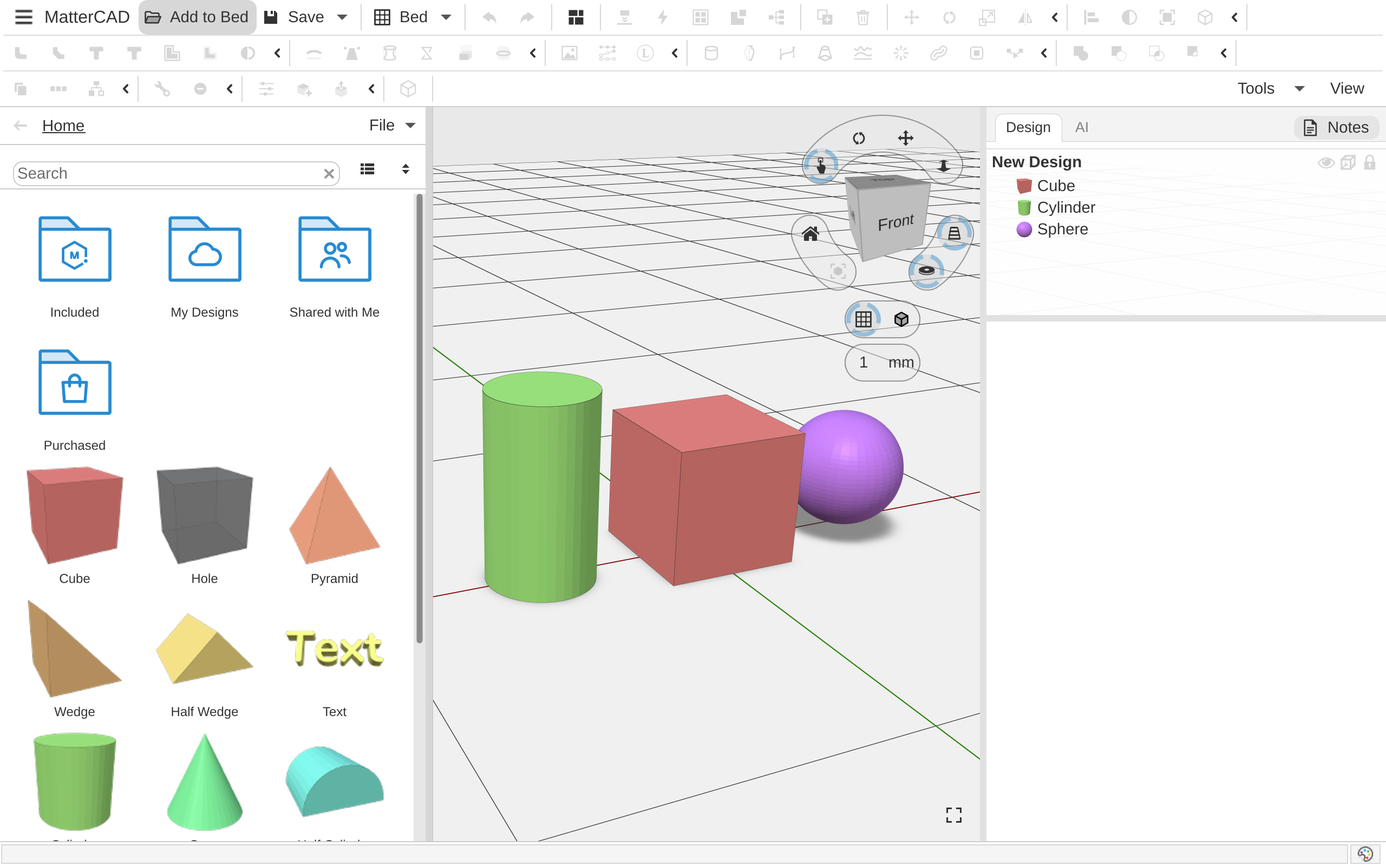
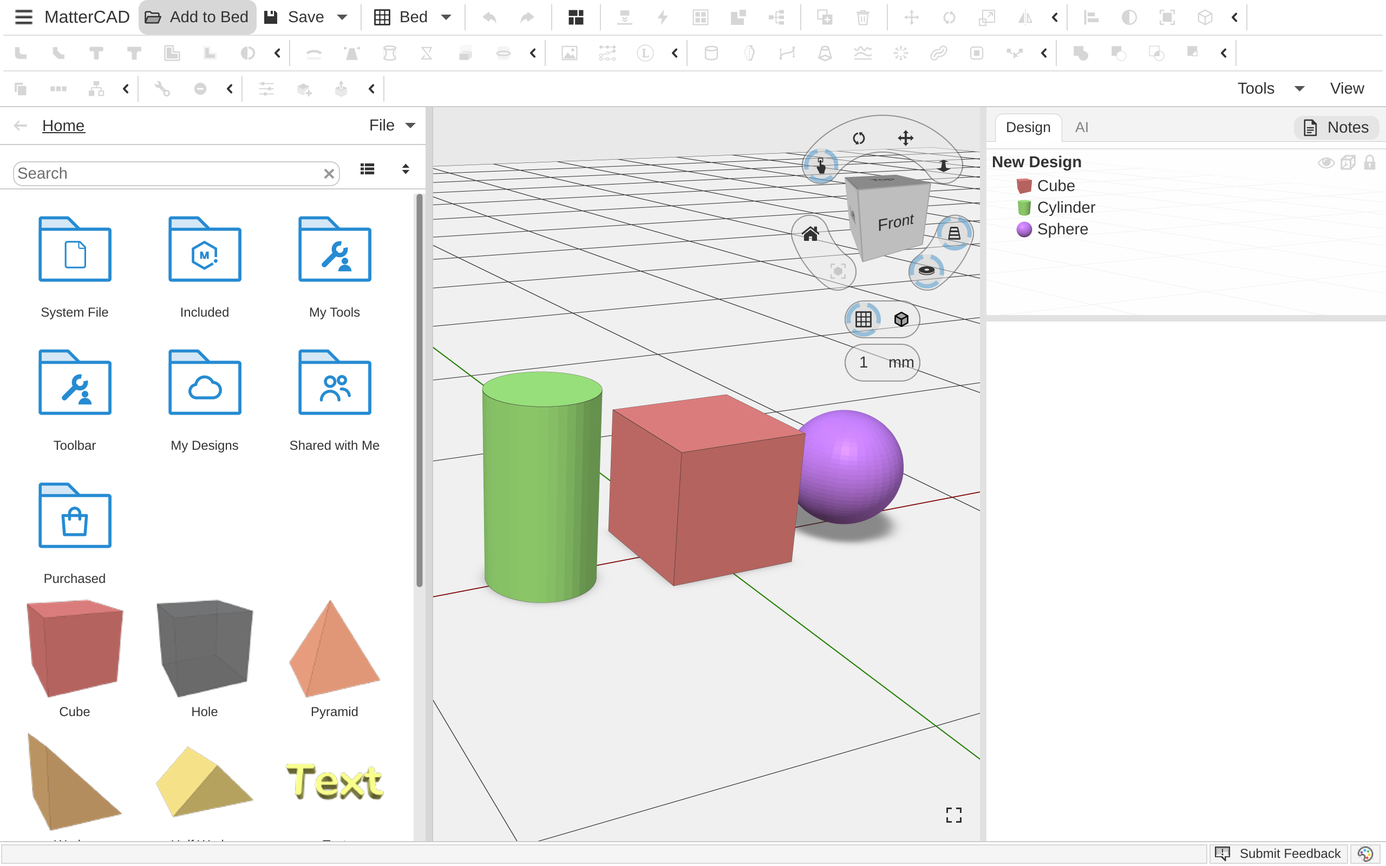
Help: a file from your computer comes in through Add to Bed's System File folder (in the Library tab it opens as a design), the MatterCAD menu no longer lists Add System File to Bed, the website's MatterCAD menu is a button in the design page's title bar, and Getting More Help covers Submit Feedback
The Add to Bed, MatterCAD menu and FAQ Settings pictures are remade with the System File folder and the menu as it is now. The website's MatterCAD menu picture waits for one taken with the title bar's button: the app's capture can only show the button on the editor's toolbar, where the website no longer puts it.

diff --git a/docs/Help/workspace/menus-and-toolbar.md b/docs/Help/workspace/menus-and-toolbar.md
@@ -7,7 +7,7 @@ keywords: delete, erase, buttons, file menu, main menu, duplicate
 ---
 # Menus and Toolbar
 
-The **☰ MatterCAD** menu at the left end of the tabs holds what belongs to the whole app: adding and opening files, help, updates and settings. The toolbar across the top of a design holds what belongs to that design: adding parts, saving, the bed, undo and the operations.
+The **☰ MatterCAD** menu at the left end of the tabs holds what belongs to the whole app: opening files, help, feedback, updates and settings. The toolbar across the top of a design holds what belongs to that design: adding parts, saving, the bed, undo and the operations.
 
 On a Mac, press ⌘ (Command) wherever this page says Ctrl.
 
@@ -20,11 +20,12 @@ Click **☰ MatterCAD** at the left end of the tabs. A row with a key shows it a
 
 | Item | What it does |
 |------|--------------|
-| **Add System File to Bed** | Adds a file from your computer to the design you have open. Its parts land on the bed, in one undo step. It is greyed out while the **Library** or **Help** tab is in front. See [Adding Existing Objects](../getting-started/adding-existing-objects.md) |
 | **Open System File** | Opens a file from your computer (Ctrl+O). An MCX design opens in its own tab. Any other file (an STL, a picture, a drawing) opens on the bed of a new design. See [Adding Existing Objects](../getting-started/adding-existing-objects.md) |
 | **Open Recent** | Lists the last 10 designs you opened, newest first, each with a small picture. Hover over one to see where it is. Click one to open it again. A design that is already open shows its tab instead of opening twice. When there are none, the list says **No recent files** |
+| **Open Demo** | Lists the demo designs MatterHackers keeps in Design Apps. Pick one to open a copy of it in a new tab; the first **Save** asks where to keep it. It isn't in the menu in a copy of MatterCAD set up not to use the network |
 | **Help** | Opens the **Help** tab, the same as pressing F1 |
 | **Interface Tour** | Opens the welcome window. Click **Next** there for a short guided tour of the window. See [Updates and Recovery](updates-and-recovery.md#the-welcome-page-and-the-interface-tour) |
+| **Submit Feedback...** | Opens the **Submit Feedback** window, to report a bug, ask for a feature or ask a question. The **Submit Feedback** button in the status bar opens it too. See [Getting More Help](../get-support.md#submit-feedback-in-mattercad) |
 | **Check For Update** | Looks for a newer version of MatterCAD. See [Updates and Recovery](updates-and-recovery.md#check-for-update). It isn't in the menu in the browser, where reloading the page gets the newest version, or in a copy of MatterCAD set up not to use the network |
 | **Settings** | Opens **MatterCAD Settings**. See [Settings](settings.md) |
 | **Community** › **Guides and Articles** | Opens MatterHackers' MatterCAD guides and articles in your web browser |
@@ -38,11 +39,11 @@ A design from your [Cloud Library](../library/cloud-library.md) that has been de
 
 ## The Mac Menu Bar
 
-On a Mac, the same items are also in the menu bar at the top of the screen, and **File** adds **Save**, **Save As** and **Share...**, which the ☰ MatterCAD menu leaves to the toolbar. An item with a key shows it:
+On a Mac, the same items are also in the menu bar at the top of the screen, and **File** adds **Add System File to Bed**, which the ☰ MatterCAD menu leaves to **Add to Bed**, and **Save**, **Save As** and **Share...**, which it leaves to the toolbar. An item with a key shows it:
 
 - **MatterCAD** - **About MatterCAD**, **Settings** (⌘,), **Check For Update** and **Quit** (⌘Q).
-- **File** - **Add System File to Bed**, **Open System File** (⌘O), **Open Recent**, **Save** (⌘S), **Save As** (⇧⌘S) and **Share...**. **Save** and **Save As** work on the design in front, as the toolbar's do. **Share...** opens the Share dialog for the design in front; it is greyed out unless that design is saved in your Cloud Library. See [Sharing](../library/sharing.md).
-- **Help** - **Help** (F1), **Interface Tour** and **Community**.
+- **File** - **Add System File to Bed** (a file from your computer onto the bed of the design in front, as **Add to Bed**'s **System File** does), **Open System File** (⌘O), **Open Recent**, **Save** (⌘S), **Save As** (⇧⌘S) and **Share...**. **Save** and **Save As** work on the design in front, as the toolbar's do. **Share...** opens the Share dialog for the design in front; it is greyed out unless that design is saved in your Cloud Library. See [Sharing](../library/sharing.md).
+- **Help** - **Help** (F1), **Interface Tour**, **Submit Feedback...** and **Community**.
 
 The first time MatterCAD starts, these items stay greyed out until you accept the license agreement. **Quit** always works.
 
@@ -63,7 +64,7 @@ Hover over any button to see its name, with its key when it has one, for example
 
 Click **Add to Bed** to open the library over the left side of the design. Drag a part or a file from it onto the bed. Click **Add to Bed** again, or click outside the library, to close it. See [Adding Existing Objects](../getting-started/adding-existing-objects.md#add-to-bed).
 
-To pick a file on your computer instead, choose **Add System File to Bed** in the **☰ MatterCAD** menu (above).
+To add a file from your computer instead, open **System File**, the library's first folder: pick the file, the library closes, and the file's parts land on the bed.
 
 ### Save
 

diff --git a/docs/Help/get-support.md b/docs/Help/get-support.md
@@ -1,9 +1,47 @@
 ---
 title: Getting More Help
 nav_order: 102
-description: Contact MatterHackers support when you need help or want to report a problem.
-keywords: support, contact, report a bug, customer service, email, help me
+description: Send feedback from MatterCAD or the website, or contact MatterHackers support when you need help or want to report a problem.
+keywords: support, contact, report a bug, customer service, email, help me, feedback, submit feedback, send feedback, feature request, report a problem
 ---
 # Issue Reporting & Support
 
-If you have an issue to report or need help with MatterCAD, please contact our support team at [MatterHackers Support](https://www.matterhackers.com/support).
+To tell us about a problem, ask for a feature or ask a question, send feedback right from MatterCAD or from the MatterCAD website. For anything else, contact our support team at [MatterHackers Support](https://www.matterhackers.com/support).
+
+## Submit Feedback in MatterCAD
+
+Open the **Submit Feedback** window in either of these ways:
+
+- Click **Submit Feedback** in the status bar at the bottom of the window, left of the theme button. In a narrow window the button shows only its icon.
+- Choose **Submit Feedback...** in the **☰ MatterCAD** menu ([Menus and Toolbar](workspace/menus-and-toolbar.md)). On a Mac it is also in the menu bar's **Help** menu.
+
+Feedback is sent with your MatterHackers account. If you aren't signed in, the window says "Sign in to send feedback" and offers **Sign In** first.
+
+The window asks for:
+
+- **The type** - **Bug**, **Feature request** or **Question**.
+- **Title** - A short summary.
+- **Description** - What happened, and what you expected. Near the 4,000-character limit the window shows how many characters are left.
+- **Include with your report:** - Tick what goes with it: a **Screenshot of the 3D view**, **Your design** (the whole design, so we can reproduce the problem) and **Diagnostics** (MatterCAD's version, your system and graphics, your recent steps and the end of MatterCAD's log, with your computer's user name and your sign-in removed). Click **Show** to see the diagnostics before you send them.
+- **OK to contact me about this** - Tick it if we may write back to you. It starts unticked.
+
+Click **Send**. When it arrives, the window says "Thank you. Your feedback was sent." with a reference you can copy with **Copy Reference**. If it couldn't be sent, the window says so and offers **Retry**.
+
+## Feedback on the Website
+
+The MatterCAD website has a **Feedback** button in its header, at the top right. Click it and choose what your feedback is about:
+
+- **This design** - Only on a design's page.
+- **The website**
+- **The MatterCAD app**
+
+On a design's page, each choice opens MatterCAD's **Submit Feedback** window over the design, whether you are viewing the design or editing it. The window asks **What is this about?** with the same three choices, already set to the one you picked. Choosing **The website** or **The MatterCAD app** unticks the screenshot and the design, because those belong to the design; tick them again if they help explain your feedback.
+
+Anywhere else on the website (the Library, Pricing or Help pages), **The website** and **The MatterCAD app** open a short form: the kind of feedback (**Bug**, **Feature request** or **Question**), **Title**, **Description** and **OK to contact me**. Click **Send** to send it.
+
+If you aren't signed in, the website asks you to sign in first, so MatterHackers can follow up with you.
+
+## Related
+
+- [Menus and Toolbar](workspace/menus-and-toolbar.md) - The ☰ MatterCAD menu and the status bar
+- [MatterCAD on the Web](web/index.md) - Design pages and the website's header

diff --git a/docs/Help/getting-started/adding-existing-objects.md b/docs/Help/getting-started/adding-existing-objects.md
@@ -20,15 +20,15 @@ You can bring models you already have into MatterCAD: files from your computer, 
 ## Add a File to the Design You Have Open
 
 <!-- AUTO_IMAGE: type=shot id=gs-add-system-file-menu -->
-![The MatterCAD menu open over a design tab with its first item, Add System File to Bed, highlighted](https://matterhackers.github.io/MatterCAD_Docs/assets/gs-add-system-file-menu.png)
+![The Add to Bed button and the library it opens over a design, with the pointer on its first folder, System File, which adds a file from the computer to the bed](https://matterhackers.github.io/MatterCAD_Docs/assets/gs-add-system-file-menu.png)
 
-1. Click the **☰ MatterCAD** menu at the left end of the tabs (on a Mac you can also use the **File** menu in the menu bar).
-2. Choose **Add System File to Bed**, the first item.
-3. Pick the file. Its parts are added to the bed of the design you are working on.
+1. Click **Add to Bed** in the toolbar. The library opens over the left side of the design.
+2. Open **System File**, the first folder.
+3. Pick the file. The library closes, and the file's parts are added to the bed of the design you are working on, in one undo step.
 
-**Add System File to Bed** is greyed out while the **Library** or **Help** tab is in front, because there is no bed to add to. Click the tab of the design you want first.
+On a Mac you can also choose **Add System File to Bed** in the menu bar's **File** menu.
 
-The file dialog for **Open System File** and **Add System File to Bed** offers every format MatterCAD reads (its filter reads "MCX, STL, OBJ, 3MF, AMF, STEP, SVG, DXF, Images"): MCX, STL, OBJ, 3MF, AMF, STEP/STP, SVG and DXF files, and pictures (JPG/JPEG, PNG, BMP, GIF, WEBP, TGA).
+The file dialog for **Open System File** and **System File** offers every format MatterCAD reads (its filter reads "MCX, STL, OBJ, 3MF, AMF, STEP, SVG, DXF, Images"): MCX, STL, OBJ, 3MF, AMF, STEP/STP, SVG and DXF files, and pictures (JPG/JPEG, PNG, BMP, GIF, WEBP, TGA).
 
 ## Drag and Drop
 
@@ -52,6 +52,7 @@ Drag files from your computer onto the 3D view. They land on the bed where you l
 
 Click **Add to Bed** in the toolbar. The library opens over the left side of the design. From there you can:
 
+- Open **System File** to pick a file from your computer (above)
 - Open **Included** for the built-in shapes, **Sample Parts** (finished designs such as the **Coin**), **Tools** and **Design Apps**
 - Open **Computer** for the files in your Downloads, Desktop and Documents folders
 - Open your **Cloud Library** when you are signed in
@@ -62,7 +63,7 @@ Click **Add to Bed** in the toolbar. The library opens over the left side of the
 
 ### The Library Tab
 
-The **Library** tab shows the same library at full size. Right-click any item and choose **Add to Bed** to add it to the design you have open, or **Open a copy** to start a new design from it. **Open** opens a saved design (an MCX file in a folder you can save to) in its own tab; it is greyed out for STL files, built-in shapes and sample parts, which you open with **Open a copy** instead.
+The **Library** tab shows the same library at full size. Its **System File** folder opens a file from your computer as a design of its own, as **Open System File** does. Right-click any item and choose **Add to Bed** to add it to the design you have open, or **Open a copy** to start a new design from it. **Open** opens a saved design (an MCX file in a folder you can save to) in its own tab; it is greyed out for STL files, built-in shapes and sample parts, which you open with **Open a copy** instead.
 
 ## Tips
 

diff --git a/docs/Help/web/mattercad-menu.md b/docs/Help/web/mattercad-menu.md
@@ -2,21 +2,18 @@
 title: The MatterCAD Menu
 parent: "MatterCAD on the Web"
 nav_order: 1
-description: "What each item in the website editor's MatterCAD menu does: add a file, new design, tour, help and settings."
+description: "What each item in the website's MatterCAD menu does: new design, tour, help and settings."
 keywords: web menu, hamburger menu, website menu, browser menu
 ---
 # The MatterCAD Menu on the Website
 
-While you edit a design on the website, the toolbar starts with a **MatterCAD** menu (☰), before **Add to Bed**. On a phone the button shows only the ☰, at the start of the toolbar.
+While you edit a design on the website, the title bar above the design shows a **☰ MatterCAD** button, right after **View** and before the design's name. Click it to open the MatterCAD menu over the editor. Click it again, press Esc or click away to close the menu. The button is hidden while you only view the design.
 
-It holds five items: **Add System File to Bed**, **New Design**, **Interface Tour**, **Help** and **Settings**.
+It holds four items: **New Design**, **Interface Tour**, **Help** and **Settings**.
 
-<!-- AUTO_IMAGE: type=shot id=web-menu-open -->
-![The website's editor with the MatterCAD menu open under its ☰ MatterCAD button at the start of the toolbar: Add System File to Bed, New Design, Interface Tour, Help and Settings](https://matterhackers.github.io/MatterCAD_Docs/assets/web-menu-open.png)
+<!-- IMAGE_NEEDED: The website's editor with the MatterCAD menu open under the ☰ MatterCAD button in the title bar: New Design, Interface Tour, Help and Settings -->
 
-## Add System File to Bed
-
-**Add System File to Bed** brings in a file from your computer or phone. Your browser asks you to pick the file, and its parts are added to the bed. See [Adding Parts on the Web](adding-parts.md#files-from-your-computer).
+To add a file from your computer or phone, use **Add to Bed** and open **System File** ([Adding Parts on the Web](adding-parts.md#files-from-your-computer)). To send feedback, use the **Feedback** button in the website's header ([Getting More Help](../get-support.md#feedback-on-the-website)).
 
 ## New Design
 
@@ -54,7 +51,7 @@ The first time you open it, the articles take a moment to arrive: the window sho
 - **Number format** (under **General**) - How numbers show and are typed: **System** (your computer's or phone's own way), **1234.5** (a point before the decimals) or **1234,5** (a comma before the decimals). The editor redraws every number in the new format at once.
 - **Depth Peeling Layers** (under **Options**) - How many layers of see-through parts the 3D view draws: **Off**, **4**, **6** (the starting setting) or **8**. Fewer layers draw faster, which can help on a slower phone.
 
-The other settings MatterCAD has on your computer aren't in this window. The colors follow the light or dark theme you chose on the website, and the camera, snapping and units are set with the camera controls in the 3D view ([Viewport Navigation](../getting-started/viewport-navigation.md)).
+The other settings MatterCAD has on your computer aren't in this window. The colors follow the theme you chose on the website, in the menu under your name in the website's header (or the theme button beside **Sign in** when you aren't signed in), and the camera, snapping and units are set with the camera controls in the 3D view ([Viewport Navigation](../getting-started/viewport-navigation.md)).
 
 ## Related
 

diff --git a/docs/Help/web/web-and-desktop.md b/docs/Help/web/web-and-desktop.md
@@ -13,15 +13,16 @@ The editor on the website is MatterCAD itself: the same shapes, operations, Prop
 
 - **Save** keeps the design in your online library, not in a file on your computer. **Save As** lists only **My Designs** and its folders: choose the folder and the name for the copy there. It has no **Computer** folder. See [Saving on the Web](saving.md#save-as).
 - **Export** and the page's **Download** button are how you get a file on your computer. Your browser downloads it.
-- **Add to Bed** has no **Computer** folder. To bring in a file from your computer, use **Add System File to Bed** in the **MatterCAD** menu (your browser asks you to pick the file) or drag the file onto the 3D view. See [Adding Parts on the Web](adding-parts.md).
+- **Add to Bed** has no **Computer** folder. To bring in a file from your computer, open **System File** at the top of the library (your browser asks you to pick the file) or drag the file onto the 3D view. See [Adding Parts on the Web](adding-parts.md).
 - Unsaved changes are kept as a copy in your browser, which holds designs up to about 3.5 MB. MatterCAD on your computer offers to recover unsaved work when it starts instead ([Saving and Exporting](../getting-started/saving-and-exporting.md#recover-unsaved-work)).
 
 ## The Window and Menus
 
-- Each design has its own page. There are no tabs, no **Library** or **Help** tab, and no status bar along the bottom.
-- The toolbar's **MatterCAD** menu holds **Add System File to Bed**, **New Design**, **Interface Tour**, **Help** and **Settings**. **Open System File**, **Open Recent**, **Check For Update**, **Community** and **About MatterCAD** are only in MatterCAD on your computer.
+- Each design has its own page. There are no tabs, and no **Library** or **Help** tab.
+- The **☰ MatterCAD** button is in the page's title bar, shown while you edit. Its menu holds **New Design**, **Interface Tour**, **Help** and **Settings**. **Open System File**, **Open Recent**, **Check For Update**, **Community** and **About MatterCAD** are only in MatterCAD on your computer.
+- **Submit Feedback** is the **Feedback** button in the website's header, not a button in the status bar ([Getting More Help](../get-support.md#feedback-on-the-website)).
 - There is no **Check For Update**: the website runs the version of MatterCAD it serves. Reload the page to get a newer version once the website has one.
-- **Settings** has only **Number format** and **Depth Peeling Layers**. The colors follow the light or dark theme you chose on the website ([The MatterCAD Menu](mattercad-menu.md#settings)).
+- **Settings** has only **Number format** and **Depth Peeling Layers**. The colors follow the theme you chose on the website, in the menu under your name in its header ([The MatterCAD Menu](mattercad-menu.md#settings)).
 - The **Bed** menu has no **Reload**.
 - A selected part has no **Help** button and no **Help Docs** menu row. Open **Help** from the MatterCAD menu instead. The first time you open it, its articles take a moment to load ([Help](mattercad-menu.md#help)).
 - There is no **Open With** in a part's right-click menu, and no menu item that shows a file in your computer's file manager.

diff --git a/docs/Help/web/index.md b/docs/Help/web/index.md
@@ -35,9 +35,12 @@ The title bar above the design holds:
 
 - **Library** (with the back arrow) - Back to the library folder you came from.
 - **Edit** - Opens the editor. While you edit it reads **View**, a plain button that goes back to the preview. It can't be pressed until MatterCAD has started, or while the editor is sliding in or out.
+- **☰ MatterCAD** - The MatterCAD menu, shown only while you edit ([The MatterCAD Menu](mattercad-menu.md)).
 - The design's name.
 - **The full screen button** (an icon of four corners, between the name and **Download**) - Fills the screen with the title bar and the design. Press it again, or press Esc, to go back. Its tooltip reads "Full screen" or "Exit full screen". It is there only when your browser can fill the screen.
 - **Download** - Downloads the design's file as it was last saved.
+
+Above the title bar, the website's header has a **Feedback** button for telling us about the design, the website or the app ([Getting More Help](../get-support.md#feedback-on-the-website)). Next to it is the menu under your name, where you choose the website's theme (**Light**, **Dark** or **Match my system**) and color, and **Sign out**. When you aren't signed in, a theme button sits beside **Sign in** instead.
 
 If the design can't be shown, the page says why, starting with "This design couldn't be shown", and tells you to use **Download** to get the file.
 
@@ -54,7 +57,7 @@ In the preview a click never selects or moves a part. Press **Edit** to change t
 
 Press **Edit** in the title bar. With a mouse you can also double-click the 3D scene to start editing, where the design allows it. The editor slides in around the design:
 
-- The **toolbar** across the top, starting with the **MatterCAD** menu and **Add to Bed** ([The MatterCAD Menu](mattercad-menu.md)).
+- The **toolbar** across the top, starting with **Add to Bed**. The **☰ MatterCAD** button appears in the title bar ([The MatterCAD Menu](mattercad-menu.md)).
 - The **favorites bar** of shapes down the left side.
 - The **side panel** on the right, with its **Design** and **AI** tabs and the **Notes** button.
 - The **camera controls**: the cube in the top-right corner of the view and the round buttons around it.
@@ -79,7 +82,7 @@ While you have changes that are not saved, your browser asks before you leave th
 
 ## Topics
 
-- [The MatterCAD Menu](mattercad-menu.md) - Add System File to Bed, New Design, the Interface Tour, Help and Settings on the website
+- [The MatterCAD Menu](mattercad-menu.md) - New Design, the Interface Tour, Help and Settings on the website
 - [Saving on the Web](saving.md) - Save, Save As to a folder of your choice, Export, and getting back unsaved changes
 - [Adding Parts on the Web](adding-parts.md) - Shapes, sample parts and the designs in your own library
 - [Using MatterCAD on a Phone](phone.md) - The phone layout, the selection bar, press and hold menus and the bottom sheet

diff --git a/docs/Help/workspace/tabs-and-search.md b/docs/Help/workspace/tabs-and-search.md
@@ -7,7 +7,7 @@ keywords: help search, status bar, rename tab, close tab, find help
 ---
 # Tabs, Search and the Status Bar
 
-The tabs along the top of the window hold the **Store**, the **Library**, **Help** and every design you have open. At the right end of the tab bar are the help search button and your account. The status bar along the bottom of the window shows hints, running tasks and your connection.
+The tabs along the top of the window hold the **Store**, the **Library**, **Help** and every design you have open. At the right end of the tab bar are the help search button and your account. The status bar along the bottom of the window shows hints, running tasks and your connection, and has the **Submit Feedback** button.
 
 On a Mac, press ⌘ (Command) wherever this page says Ctrl.
 
@@ -81,6 +81,7 @@ The bar along the bottom of the window shows, from left to right:
 
 - **Running tasks** - Anything MatterCAD is working on, such as saving a design, with a small progress bar under its name.
 - **Hints** - What the button or control under the mouse does, or the keys that do the same thing. For example, hover over **Reset View** to see "W".
+- **Submit Feedback** - Opens the **Submit Feedback** window, to report a bug, ask for a feature or ask a question. In a narrow window it shows only its icon. See [Getting More Help](../get-support.md#submit-feedback-in-mattercad).
 - **The theme button** - Opens the **Theme** settings in a small panel, so you can change the colors without opening Settings. See [Settings](settings.md#theme).
 - **The AI item** - Shows **AI Ready**, **AI Connected** or **AI Editing** while AI assistant access is on, and is hidden while it is off. Click it to open **AI Assistant Access (MCP)**. To turn access on, use **Settings** › **AI Providers**. See [Using AI Assistants](../getting-started/ai-assistants.md).
 - **The globe** - Your connection to MatterCAD's online services. It reads **Connected** while you are signed in and online, **Disconnected** while you are signed out or offline, and **Retry Login** when your sign-in has run out and you need to [sign in](account.md) again. Hover over it to see, for example, "Services: Connected". It only reports: clicking it opens nothing.

diff --git a/docs/Help/web/adding-parts.md b/docs/Help/web/adding-parts.md
@@ -20,7 +20,7 @@ Click **Add to Bed** in the toolbar. The library opens over the left side of the
 On a phone, tap **Add**, then the last tile, the open folder (**Add from Library…**). Drag an item onto the bed, or hold a finger on it and choose **Add to Bed**.
 
 <!-- AUTO_IMAGE: type=shot id=web-add-to-bed -->
-![The editor on a design's page on the MatterCAD website with the Add to Bed library open over the left side, listing Included, My Designs, Shared with Me and Purchased beside the design](https://matterhackers.github.io/MatterCAD_Docs/assets/web-add-to-bed.png)
+![The editor on a design's page on the MatterCAD website with the Add to Bed library open over the left side, listing System File, Included, My Tools, Toolbar, My Designs, Shared with Me and Purchased beside the design](https://matterhackers.github.io/MatterCAD_Docs/assets/web-add-to-bed.png)
 
 ### Included
 
@@ -46,7 +46,7 @@ If the website refuses to send a design, MatterCAD shows a message asking you to
 
 ## Files from Your Computer
 
-- **Add System File to Bed** - Open the **MatterCAD** menu (☰) at the start of the toolbar and choose **Add System File to Bed**, its first item. Your browser asks you to pick a file, and its parts are added to the bed. This works on a phone too.
+- **System File** - Click **Add to Bed** and open **System File**, the first folder in the library. Your browser asks you to pick a file, the library closes, and the file's parts are added to the bed. This works on a phone too: tap **Add**, then the open folder at the end of the grid.
 - **Drag and drop** - Drag a file from your computer onto the 3D view while you edit. It lands where you let go.
 
 MatterCAD reads the same formats as on your computer: MCX, STL, OBJ, 3MF, AMF, STEP, SVG, DXF and pictures. See [Adding Existing Objects](../getting-started/adding-existing-objects.md#drag-and-drop) for what each one brings in.

diff --git a/docs/Help/getting-started/index.md b/docs/Help/getting-started/index.md
@@ -16,9 +16,9 @@ On a Mac, press ⌘ (Command) wherever these pages say Ctrl.
 ## The Window
 
 - **Tabs** - Along the top. Each open design has its own tab; the **Store**, **Library** and **Help** have tabs too. The **+** button (**Create New Design**) opens a new design. See [Tabs, Search and the Status Bar](../workspace/tabs-and-search.md).
-- **☰ MatterCAD menu** - At the left end of the tabs: **Add System File to Bed**, **Open System File**, **Open Recent**, **Help**, **Interface Tour**, **Check For Update**, **Settings**, **Community** and **About MatterCAD**. On a Mac the same items are also in the menu bar at the top of the screen. See [Menus and Toolbar](../workspace/menus-and-toolbar.md).
+- **☰ MatterCAD menu** - At the left end of the tabs: **Open System File**, **Open Recent**, **Help**, **Interface Tour**, **Submit Feedback...**, **Check For Update**, **Settings**, **Community** and **About MatterCAD**. On a Mac the same items are also in the menu bar at the top of the screen. See [Menus and Toolbar](../workspace/menus-and-toolbar.md).
 - **Toolbar** - Across the top of the design:
-  - **Add to Bed** - opens the library so you can drag parts and files onto the bed. To add a file from your computer, use **Add System File to Bed** in the **☰ MatterCAD** menu.
+  - **Add to Bed** - opens the library so you can drag parts and files onto the bed. To add a file from your computer, open **System File** at the top of the library.
   - **Save** - saves the design. The arrow beside it holds **Save As** and **Export**. The button lights up in the accent color while you have changes that are not saved.
   - **Bed** - **Export**, **Cut**, **Copy**, **Paste**, **Reload** and **Clear Bed**.
   - **Undo** and **Redo**.

diff --git a/docs/Help/web/phone.md b/docs/Help/web/phone.md
@@ -20,7 +20,7 @@ On a phone, the title bar's buttons are icons only: the back arrow (to the libra
 
 The toolbar keeps to one row across the top:
 
-- **☰** - On the website, the MatterCAD menu: Add System File to Bed, New Design, Interface Tour, Help and Settings ([The MatterCAD Menu](mattercad-menu.md)). MatterCAD on your computer has its MatterCAD menu in the row of tabs instead.
+- **☰** - The MatterCAD menu. On the website's design pages it is the **☰ MatterCAD** button in the title bar instead, after the eye: **New Design**, **Interface Tour**, **Help** and **Settings** ([The MatterCAD Menu](mattercad-menu.md)). MatterCAD on your computer has its MatterCAD menu in the row of tabs.
 - **Add** (the cube with a plus) - Opens the shapes, with your library at the end (see [Add](#add) below).
 - **Undo** and **Redo**.
 - **Save** - Saves the design ([Saving on the Web](saving.md)).

diff --git a/docs/Help/getting-started/creating-new-objects.md b/docs/Help/getting-started/creating-new-objects.md
@@ -10,7 +10,7 @@ keywords: blank design, add shape, start designing, first design, make something
 Most designs start from simple shapes. You add them, size them, place them, and then combine or reshape them with operations.
 
 <!-- AUTO_IMAGE: type=shot id=gs-add-to-bed-popup -->
-![The Add to Bed button and the library it opens over the bed, at its top level: Computer, Included, My Tools, History, Cloud Library, Shared with Me and Purchased](https://matterhackers.github.io/MatterCAD_Docs/assets/gs-add-to-bed-popup.png)
+![The Add to Bed button and the library it opens over the bed, at its top level: System File, Computer, Included, My Tools, History, Cloud Library, Shared with Me and Purchased](https://matterhackers.github.io/MatterCAD_Docs/assets/gs-add-to-bed-popup.png)
 
 ## Start a New Design
 

diff --git a/docs/Help/primitives/svg-object.md b/docs/Help/primitives/svg-object.md
@@ -17,7 +17,7 @@ An SVG (Scalable Vector Graphics) file opens as an **SVG Import**. By default it
 
 ## How to Use
 
-1. Drag an .svg file onto the 3D view, use **Add System File to Bed** in the **☰ MatterCAD** menu, or add one from a library folder
+1. Drag an .svg file onto the 3D view, open **System File** in **Add to Bed**'s library, or add one from a library folder
 2. Set the **Height**, or switch **Output** to **2D** to work with the flat shapes
 3. In 2D, apply [Linear Extrude](../operations/path/linear-extrude.md) to give it height, or use other [Path Operations](../operations/path/index.md)
 
